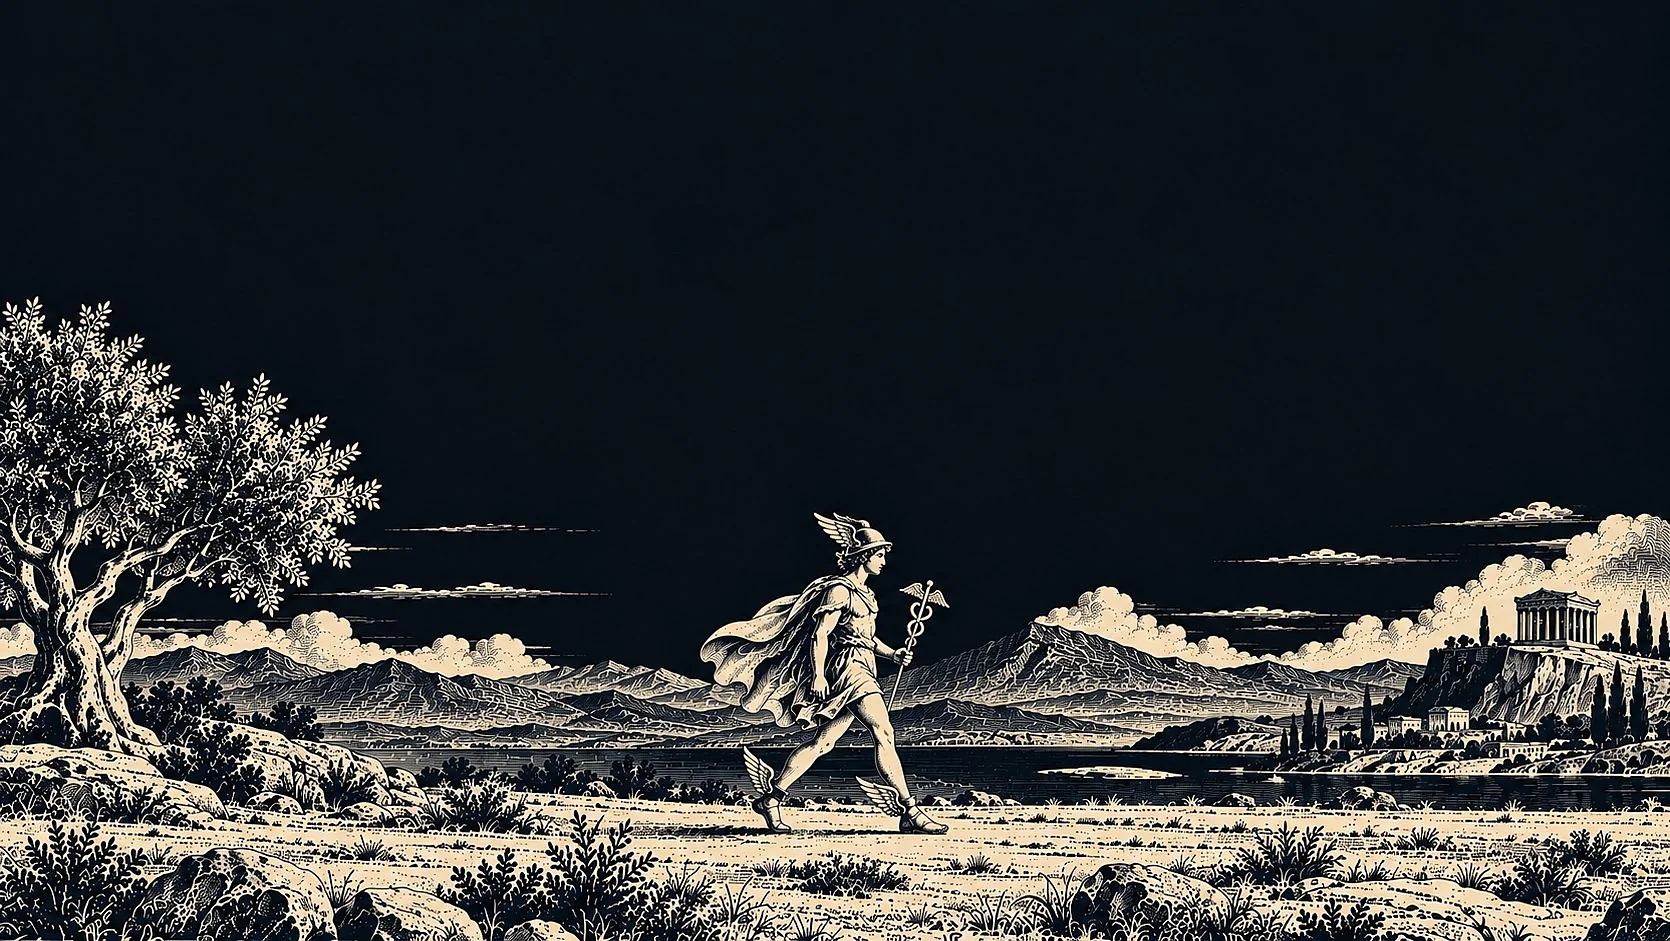
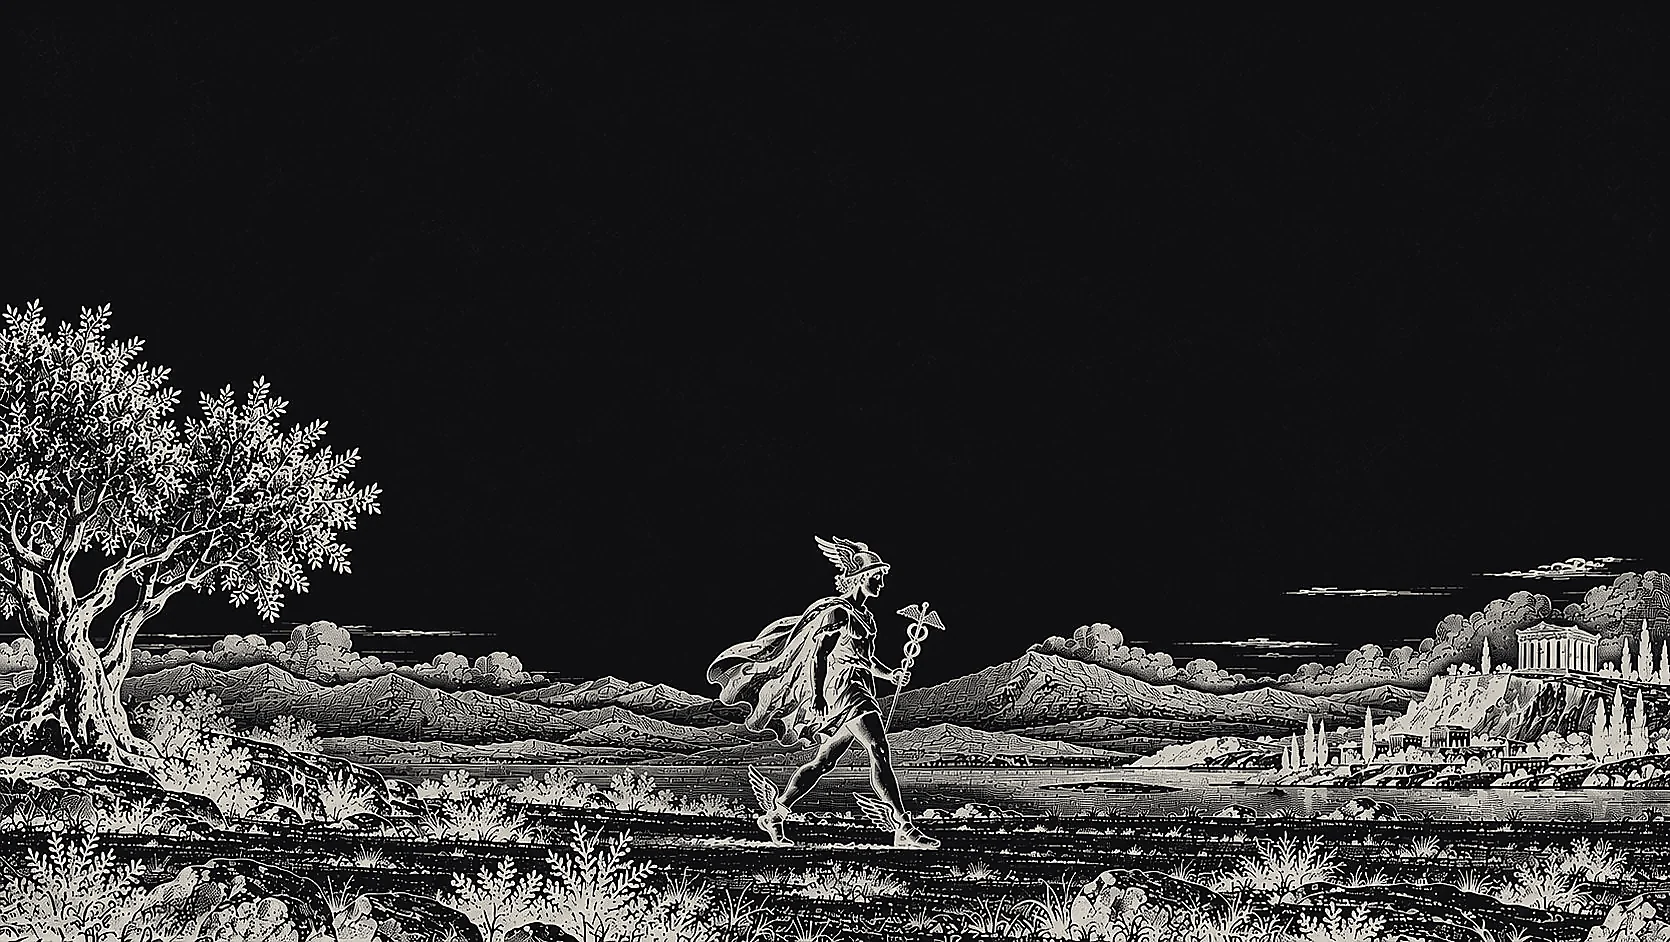
hero: mode gelap dibuat dari ukiran yang sama persis (geometri identik)

diff --git a/src/styles/global.css b/src/styles/global.css
@@ -26,8 +26,7 @@ html[data-theme=dark] .sheet,html[data-theme=dark] .live-frame{
 html[data-theme=dark]{background:var(--bg);color-scheme:dark}
 /* hero: di mode gelap ilustrasinya pindah ke ukiran Hermes
    (background-position TIDAK ditimpa — biar sejajar dengan mode terang) */
-html[data-theme=dark] .page-bg{background-image:url('/bg/hermes-dark.webp')!important;
-  filter:brightness(.72) saturate(.92)}
+html[data-theme=dark] .page-bg{background-image:url('/bg/hermes-dark.webp')!important}
 html[data-theme=dark] .filter-btn[aria-pressed="true"],html[data-theme=dark] .btn-cv{color:#0d0d10}
 html[data-theme=dark] .contact-row:hover{background:#ffffff10}
 html[data-theme=dark] .spec{background:#1d1d23}
